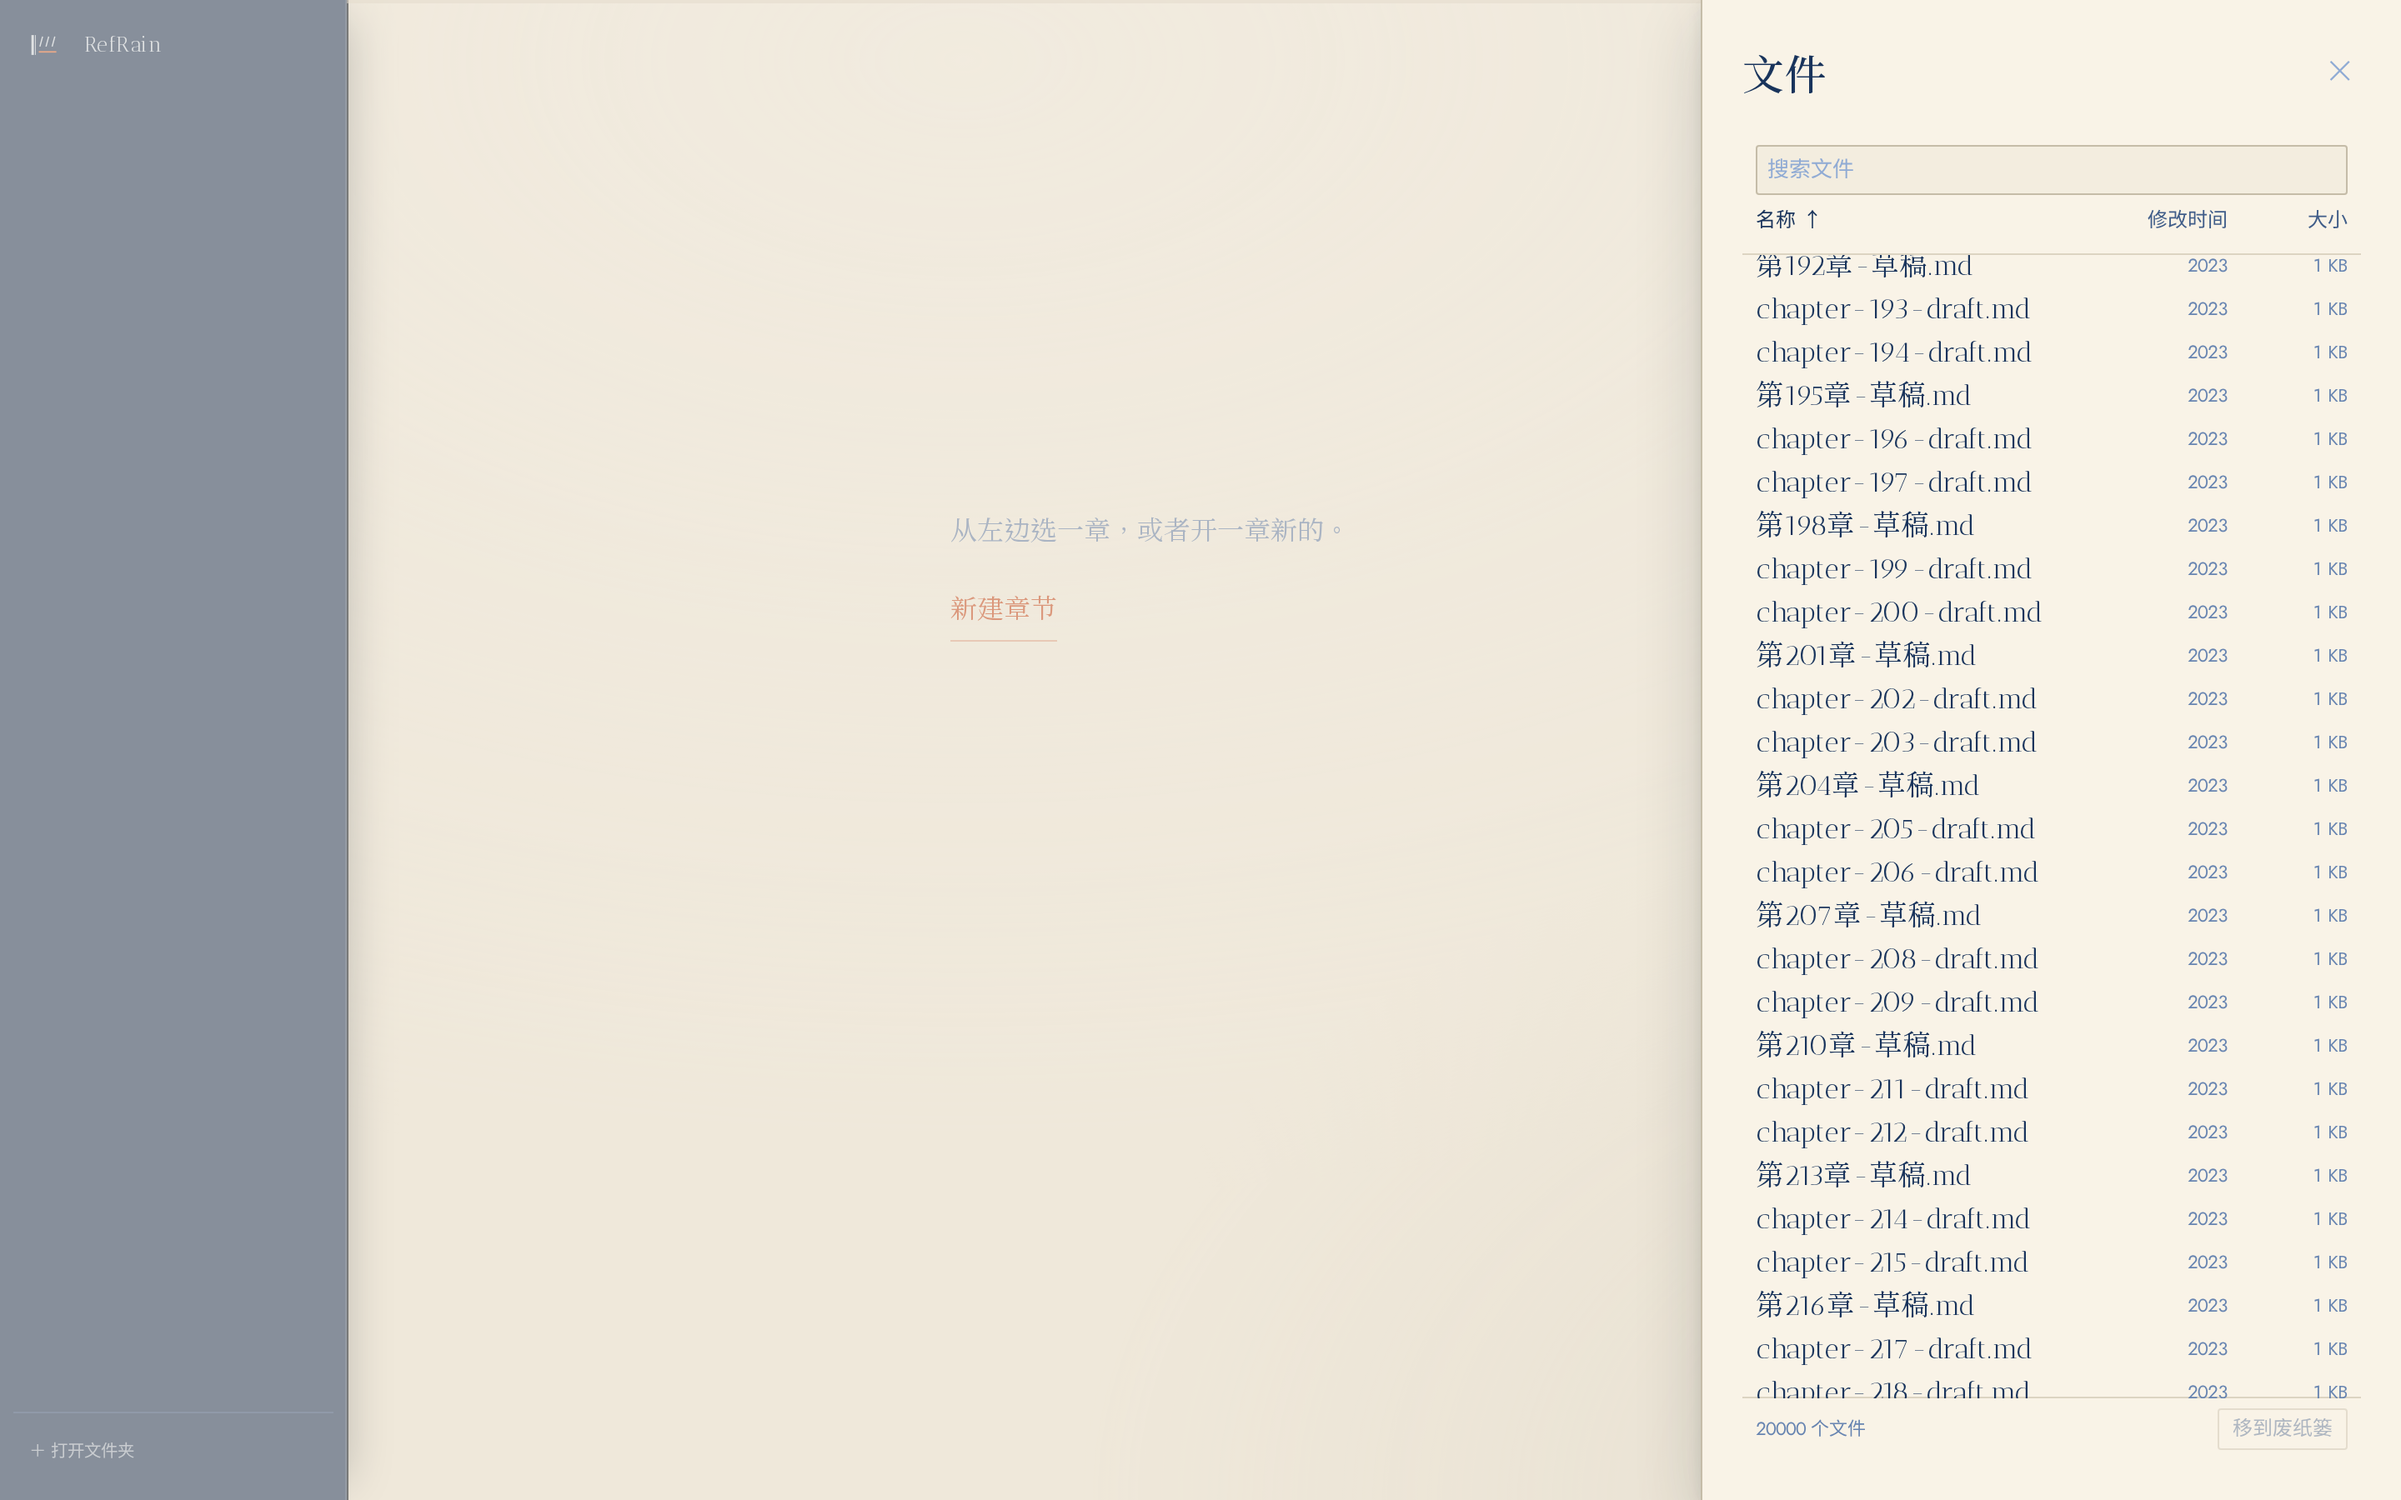
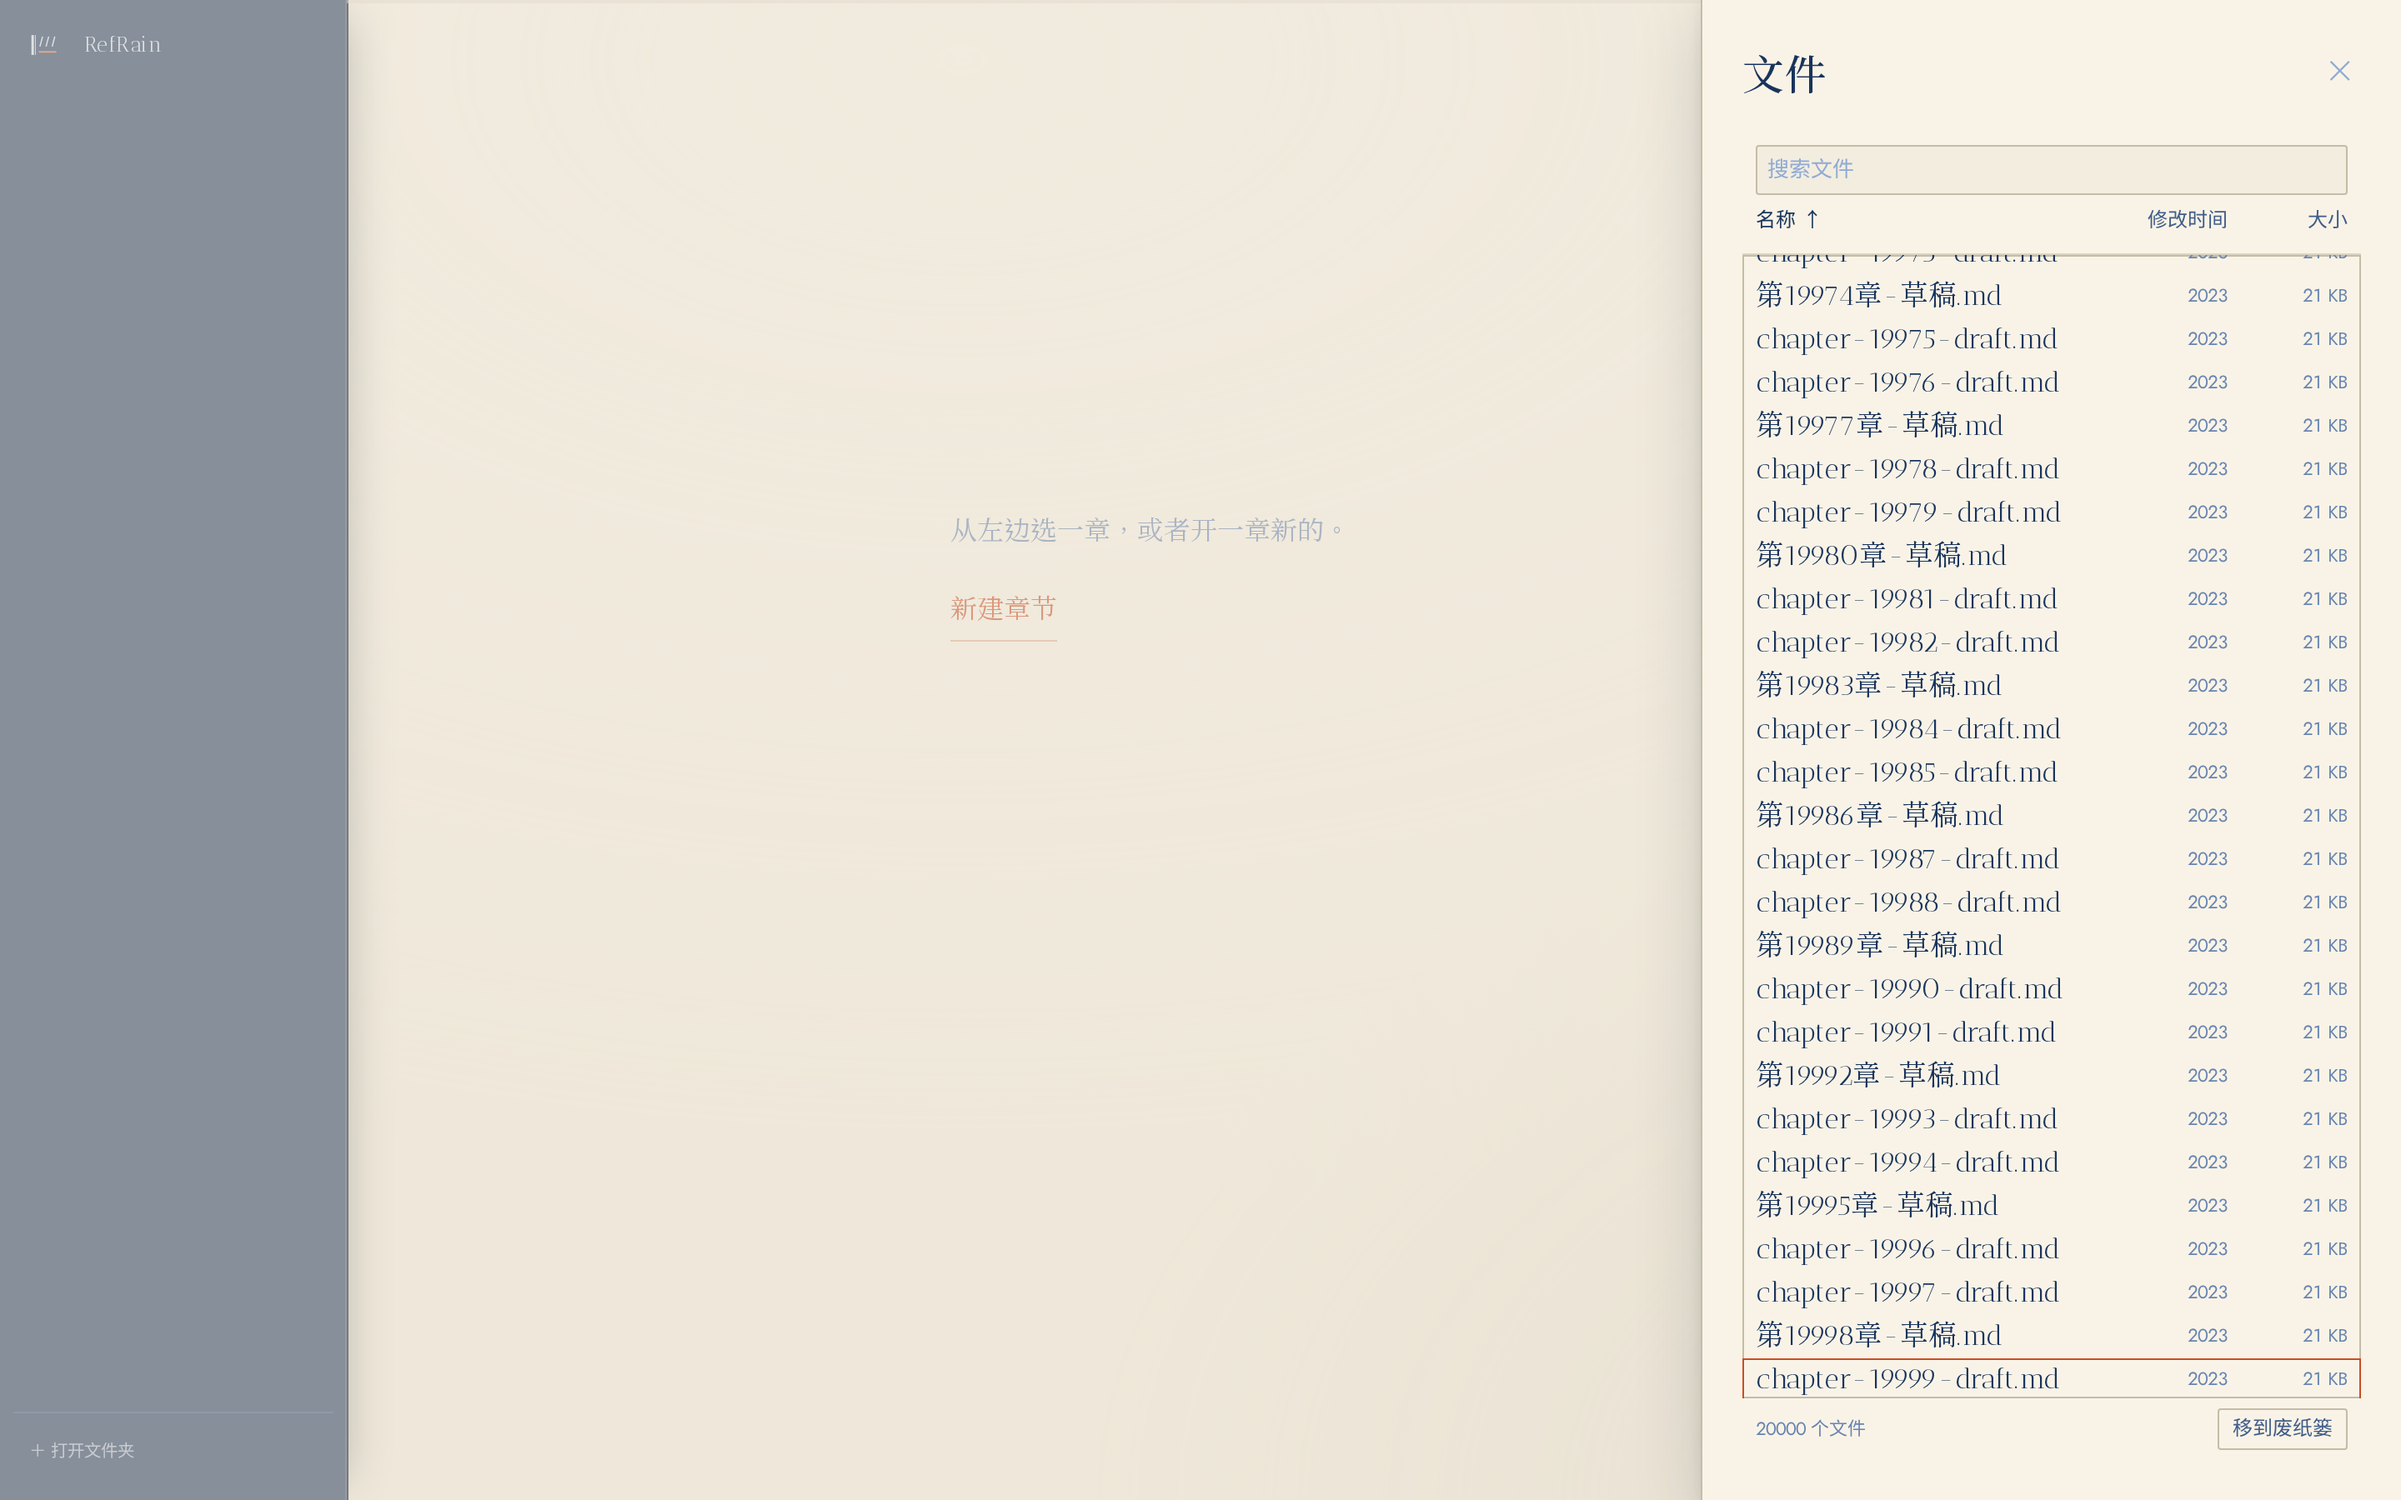
Let the file browser be operated from its listbox
The Files pane exposed a focusable listbox whose options could not actually be reached: Arrow keys did nothing, Space scrolled the page, and every row remained tabindex -1 without an active descendant.

The listbox now owns a global virtual cursor, keeps the focused row in view, publishes aria-activedescendant, and supports arrows, Home/End, PageUp/PageDown, Enter, Space, and additive Control/Command+Space selection without rendering skipped rows. The real 20,000-file browser gate reaches the final option and the reviewed screenshot records the focused state.

Evidence: TypeScript/Svelte check passed; production build completed; verify-files passed 21 claims; rendered focus pixels were inspected after replacing the browser default outline.

Changed region(s): [[0.7188, 0.1556, 0.875, 0.9333], [0.9062, 0.1556, 1.0, 0.9644]]

diff --git a/apps/desktop/src/renderer/Files.svelte b/apps/desktop/src/renderer/Files.svelte
@@ -73,9 +73,15 @@ let scrollTop = $state(0);
  */
 let height = $state(0);
 let selected = $state(new Set<string>());
+let focusedIndex = $state<number | null>(null);
 
 const first = $derived(Math.max(0, Math.floor(scrollTop / ROW) - MARGIN));
 const visible = $derived(Math.ceil(height / ROW) + MARGIN * 2);
+const focusedId = $derived(
+  focusedIndex !== null && focusedIndex >= first && focusedIndex < first + entries.length
+    ? `files-option-${focusedIndex}`
+    : undefined,
+);
 
 // Asking for the page is an effect of where the viewport is, not of a click:
 // scrolling with the keyboard has to fetch as readily as scrolling with a wheel.
@@ -91,6 +97,46 @@ const onScroll = (event: Event) => {
   const target = event.currentTarget as HTMLElement;
   scrollTop = target.scrollTop;
   height = target.clientHeight;
+};
+
+const focus = (index: number) => {
+  if (!viewport || total === 0) return;
+  focusedIndex = Math.max(0, Math.min(total - 1, index));
+  const top = focusedIndex * ROW;
+  if (top < viewport.scrollTop) viewport.scrollTop = top;
+  else if (top + ROW > viewport.scrollTop + viewport.clientHeight)
+    viewport.scrollTop = top + ROW - viewport.clientHeight;
+  scrollTop = viewport.scrollTop;
+  height = viewport.clientHeight;
+};
+
+const onListKey = (event: KeyboardEvent) => {
+  const page = Math.max(1, Math.floor(height / ROW));
+  const current = focusedIndex ?? first;
+  const target =
+    event.key === "ArrowDown"
+      ? current + (focusedIndex === null ? 0 : 1)
+      : event.key === "ArrowUp"
+        ? current - (focusedIndex === null ? 0 : 1)
+        : event.key === "Home"
+          ? 0
+          : event.key === "End"
+            ? total - 1
+            : event.key === "PageDown"
+              ? current + page
+              : event.key === "PageUp"
+                ? current - page
+                : null;
+  if (target !== null) {
+    event.preventDefault();
+    focus(target);
+    return;
+  }
+  if (event.key !== "Enter" && event.key !== " ") return;
+  const entry = focusedIndex === null ? undefined : entries[focusedIndex - first];
+  if (!entry) return;
+  event.preventDefault();
+  toggle(entry, event.metaKey || event.ctrlKey);
 };
 
 const toggle = (entry: FileEntry, additive: boolean) => {
@@ -174,27 +220,36 @@ const columns: { order: SortOrder; label: Key }[] = [
       class="viewport"
       bind:this={viewport}
       onscroll={onScroll}
+      onkeydown={onListKey}
       role="listbox"
       tabindex="0"
       aria-label={t("files.title")}
       aria-multiselectable="true"
+      aria-activedescendant={focusedId}
     >
       <!-- One spacer holds the full scroll height so the scrollbar reflects the
            whole workspace while only the visible rows exist in the DOM. -->
       <div class="spacer" style="height: {total * ROW}px">
         {#each entries as entry, index (entry.path)}
           <div
+            id={`files-option-${first + index}`}
             class="row"
             class:selected={selected.has(entry.path)}
+            class:focused={focusedIndex === first + index}
             class:active={active === entry.path}
             class:directory={entry.kind === "directory"}
             style="top: {(first + index) * ROW}px"
             role="option"
             aria-selected={selected.has(entry.path)}
             tabindex="-1"
-            onclick={(event) => toggle(entry, event.metaKey || event.ctrlKey)}
+            onclick={(event) => {
+              focusedIndex = first + index;
+              toggle(entry, event.metaKey || event.ctrlKey);
+            }}
             onkeydown={(event) => {
-              if (event.key === "Enter" || event.key === " ") toggle(entry, event.ctrlKey);
+              if (event.key !== "Enter" && event.key !== " ") return;
+              focusedIndex = first + index;
+              toggle(entry, event.metaKey || event.ctrlKey);
             }}
           >
             <span
@@ -311,6 +366,11 @@ input[type="search"] {
   contain: paint;
 }
 
+.viewport:focus-visible {
+  outline: var(--hairline, 1px) solid var(--rule-strong);
+  outline-offset: calc(-1 * var(--hairline, 1px));
+}
+
 .spacer {
   position: relative;
 }
@@ -332,6 +392,11 @@ input[type="search"] {
 
 .row.selected {
   background: var(--role-pending-wash);
+}
+
+.row.focused {
+  outline: var(--hairline, 1px) solid var(--role-pending);
+  outline-offset: calc(-1 * var(--hairline, 1px));
 }
 
 .row.active {

diff --git a/apps/desktop/scripts/verify-files.ts b/apps/desktop/scripts/verify-files.ts
@@ -334,6 +334,33 @@ if ((await pane.count()) > 0) {
   );
   check("the delete control is disabled with nothing selected", await trash.isDisabled());
 
+  const listbox = page.locator('section.files [role="listbox"]');
+  await listbox.focus();
+  await page.keyboard.press("ArrowDown");
+  const firstFocused = await listbox.getAttribute("aria-activedescendant");
+  check(
+    "ArrowDown gives the listbox a real active option",
+    firstFocused !== null && (await page.locator(`#${firstFocused}`).count()) === 1,
+    `active descendant: ${firstFocused}`,
+  );
+  await page.keyboard.press("Space");
+  await page.keyboard.press("ArrowDown");
+  await page.keyboard.press("Control+Space");
+  check(
+    "Space and Control+Space select through the listbox focus",
+    (await page.locator('section.files [role="option"][aria-selected="true"]').count()) === 2,
+  );
+
+  await page.keyboard.press("End");
+  await page.waitForTimeout(300);
+  const lastFocused = await listbox.getAttribute("aria-activedescendant");
+  check(
+    "End reaches the final option without rendering the intervening workspace",
+    lastFocused === `files-option-${ENTRIES.length - 1}` &&
+      (await page.locator(`#files-option-${ENTRIES.length - 1}`).count()) === 1,
+    `active descendant: ${lastFocused}`,
+  );
+
   await page.screenshot({ path: join(root, "shots", "07-files.png") });
 }
 
